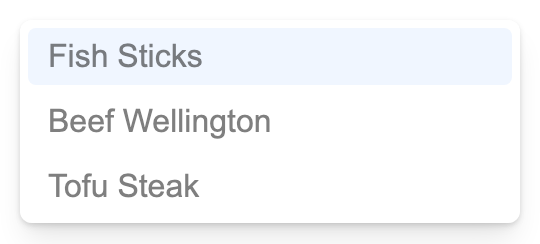
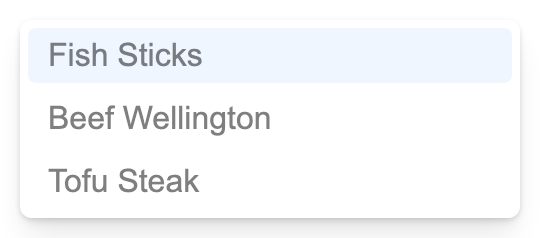
font test

diff --git a/src/options/Options.ts b/src/options/Options.ts
@@ -103,6 +103,7 @@ export class Options extends RapidElement {
         border-radius: 4px;
         margin: 4px;
         cursor: pointer;
+        line-height: 1.1;
         color: var(--color-text-dark);
       }
 
@@ -146,7 +147,7 @@ export class Options extends RapidElement {
 
       temba-loading {
         align-self: center;
-        margin-top: 0.025em;
+        // margin-top: 0.025em;
       }
 
       .loader-bar {
